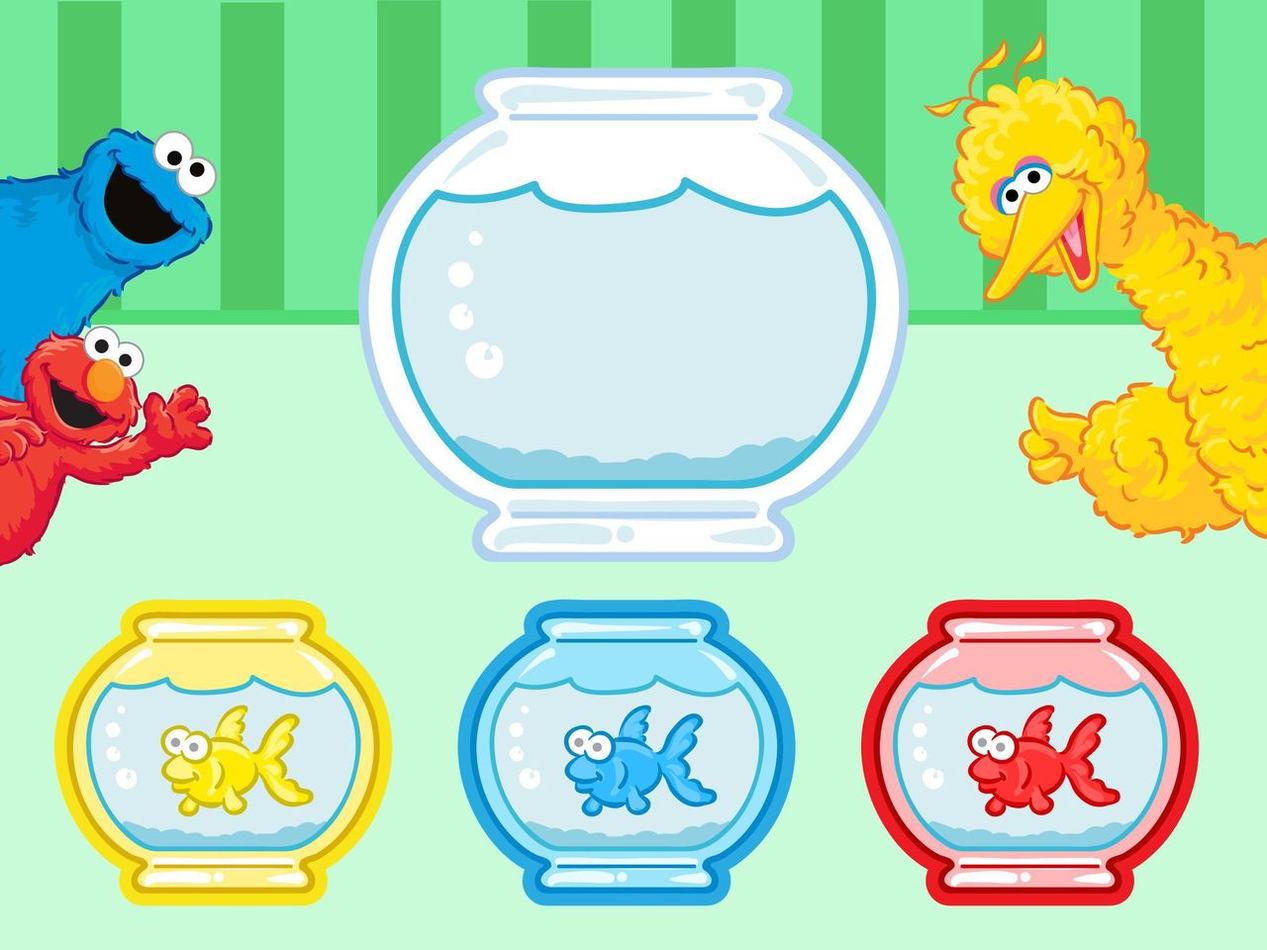
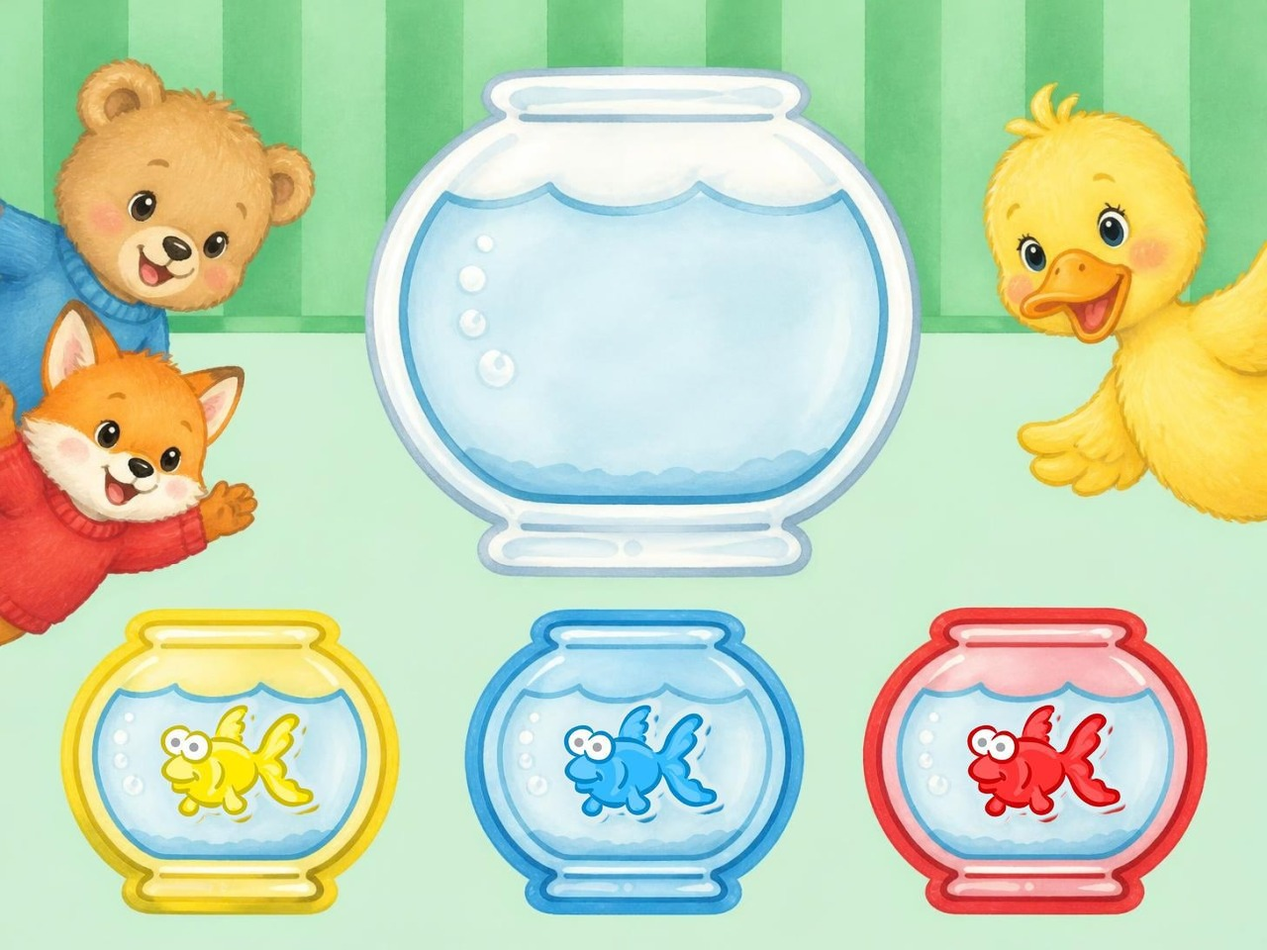
Sesame Street characters replaced in 'התאמת צבעים' (3 slides) and the height puzzle in 'גודל וגובה' (pieces now the new animals)

diff --git a/games/g4bj1/index.html b/games/g4bj1/index.html
@@ -157,7 +157,7 @@ body.framed #app .top .brand{display:none}
 </script>
 <script>
 /*CFGLINE*/
-const CFG = {"slides": [{"i": 0, "t": "R", "img": "img/s0.jpg?b=4", "acts": [{"intro": "aud/photo1__activity0__activity0.mp3", "advance": true, "idle": null, "shapes": []}], "layers": [{"t": "bg", "src": "lay/s0_0.jpg?b=4", "w": 2048, "h": 1536, "m": [1, 0, 0, 1, 0, 0], "show": 0, "tog": false}]}, {"i": 1, "t": "P", "img": "img/s1.jpg?b=4", "acts": [{"intro": "aud/photo2__activity0__activity0.mp3", "advance": false, "idle": null, "shapes": [{"d": "M 532.1 602.2 L 535.4 598.0 L 536.8 592.9 L 540.1 588.6 L 542.9 584.0 L 547.6 579.7 L 552.3 576.9 L 557.0 574.6 L 562.1 573.2 L 567.3 575.1 L 571.5 577.9 L 571.5 583.0 L 567.7 587.2 L 566.3 592.4 L 567.3 597.5 L 566.3 602.7 L 563.0 606.9 L 559.3 611.1 L 560.2 616.3 L 561.2 621.4 L 559.3 626.1 L 564.4 627.0 L 568.2 630.8 L 570.1 635.5 L 575.2 636.4 L 580.4 637.3 L 584.6 640.6 L 583.6 645.8 L 579.4 648.6 L 574.8 650.5 L 570.1 652.3 L 564.9 653.7 L 559.8 653.7 L 554.6 652.3 L 549.9 650.0 L 545.7 646.2 L 541.5 642.5 L 539.2 637.8 L 537.8 632.7 L 534.0 636.9 L 529.8 640.6 L 525.6 643.4 L 529.3 647.2 L 530.3 652.3 L 526.0 656.1 L 521.4 658.0 L 516.2 659.4 L 511.1 658.9 L 506.8 656.1 L 504.5 651.4 L 500.3 654.7 L 495.1 655.1 L 490.5 653.3 L 487.6 657.5 L 483.9 661.7 L 479.2 664.0 L 474.1 662.6 L 469.9 658.9 L 468.0 654.2 L 468.9 649.1 L 473.1 645.8 L 476.9 642.0 L 471.7 643.0 L 466.6 643.0 L 463.3 638.8 L 462.4 633.6 L 459.1 629.4 L 455.8 625.2 L 455.3 620.0 L 457.2 614.9 L 461.4 611.1 L 458.1 606.9 L 455.8 602.2 L 454.4 597.1 L 454.9 591.9 L 459.1 587.7 L 463.8 585.4 L 468.4 583.5 L 473.6 583.0 L 478.3 585.4 L 482.5 588.2 L 487.2 585.8 L 492.3 587.2 L 495.6 591.5 L 498.4 595.7 L 498.0 590.5 L 500.8 586.3 L 503.1 581.6 L 506.4 576.9 L 510.6 573.2 L 514.8 570.4 L 520.0 568.5 L 525.1 567.1 L 530.3 568.5 L 530.7 573.7 L 526.5 576.5 L 523.7 580.7 L 526.5 584.9 L 526.5 590.0 L 525.6 595.2 L 527.0 600.4 L 531.2 603.2 L 534.7 599.6 Z", "bb": [454, 567, 585, 664], "r1": "aud/photo2__activity0__shape4__record1_4.mp3", "r2": null, "ans": [], "link": null, "tx": 71.4, "ty": -299.7, "idle": null}, {"d": "M 206.2 601.8 L 209.5 597.5 L 210.9 592.4 L 214.2 588.2 L 217.0 583.5 L 221.7 579.3 L 226.3 576.5 L 231.0 574.1 L 236.2 572.7 L 241.3 574.6 L 245.5 577.4 L 245.5 582.6 L 241.8 586.8 L 240.4 591.9 L 241.3 597.1 L 240.4 602.2 L 237.1 606.4 L 233.4 610.7 L 234.3 615.8 L 235.2 621.0 L 233.4 625.6 L 238.5 626.6 L 242.3 630.3 L 244.1 635.0 L 249.3 635.9 L 254.4 636.9 L 258.7 640.2 L 257.7 645.3 L 253.5 648.1 L 248.8 650.0 L 244.1 651.9 L 239.0 653.3 L 233.8 653.3 L 228.7 651.9 L 224.0 649.5 L 219.8 645.8 L 215.6 642.0 L 213.2 637.3 L 211.8 632.2 L 208.1 636.4 L 203.9 640.2 L 199.6 643.0 L 203.4 646.7 L 204.3 651.9 L 200.1 655.6 L 195.4 657.5 L 190.3 658.9 L 185.1 658.4 L 180.9 655.6 L 178.6 650.9 L 174.4 654.2 L 169.2 654.7 L 164.5 652.8 L 161.7 657.0 L 158.0 661.2 L 153.3 663.6 L 148.1 662.2 L 143.9 658.4 L 142.0 653.7 L 143.0 648.6 L 147.2 645.3 L 150.9 641.6 L 145.8 642.5 L 140.6 642.5 L 137.4 638.3 L 136.4 633.1 L 133.2 628.9 L 129.9 624.7 L 129.4 619.6 L 131.3 614.4 L 135.5 610.7 L 132.2 606.4 L 129.9 601.8 L 128.5 596.6 L 128.9 591.5 L 133.2 587.2 L 137.8 584.9 L 142.5 583.0 L 147.7 582.6 L 152.4 584.9 L 156.6 587.7 L 161.2 585.4 L 166.4 586.8 L 169.7 591.0 L 172.5 595.2 L 172.0 590.0 L 174.8 585.8 L 177.2 581.2 L 180.4 576.5 L 184.7 572.7 L 188.9 569.9 L 194.0 568.0 L 199.2 566.6 L 204.3 568.0 L 204.8 573.2 L 200.6 576.0 L 197.8 580.2 L 200.6 584.4 L 200.6 589.6 L 199.6 594.7 L 201.1 599.9 L 205.3 602.7 L 208.8 599.2 Z", "bb": [128, 567, 259, 664], "r1": "aud/photo2__activity0__shape6__record1_6.mp3", "r2": null, "ans": [], "link": null, "tx": 322.3, "ty": -391.1, "idle": null}, {"d": "M 857.6 602.2 L 860.9 598.0 L 862.3 592.9 L 865.6 588.6 L 868.4 584.0 L 873.1 579.7 L 877.7 576.9 L 882.4 574.6 L 887.6 573.2 L 892.7 575.1 L 896.9 577.9 L 896.9 583.0 L 893.2 587.2 L 891.8 592.4 L 892.7 597.5 L 891.8 602.7 L 888.5 606.9 L 884.8 611.1 L 885.7 616.3 L 886.6 621.4 L 884.8 626.1 L 889.9 627.0 L 893.7 630.8 L 895.5 635.5 L 900.7 636.4 L 905.8 637.3 L 910.0 640.6 L 909.1 645.8 L 904.9 648.6 L 900.2 650.5 L 895.5 652.3 L 890.4 653.7 L 885.2 653.7 L 880.1 652.3 L 875.4 650.0 L 871.2 646.2 L 867.0 642.5 L 864.6 637.8 L 863.2 632.7 L 859.5 636.9 L 855.3 640.6 L 851.0 643.4 L 854.8 647.2 L 855.7 652.3 L 851.5 656.1 L 846.8 658.0 L 841.7 659.4 L 836.5 658.9 L 832.3 656.1 L 830.0 651.4 L 825.8 654.7 L 820.6 655.1 L 815.9 653.3 L 813.1 657.5 L 809.4 661.7 L 804.7 664.0 L 799.5 662.6 L 795.3 658.9 L 793.4 654.2 L 794.4 649.1 L 798.6 645.8 L 802.3 642.0 L 797.2 643.0 L 792.0 643.0 L 788.8 638.8 L 787.8 633.6 L 784.5 629.4 L 781.3 625.2 L 780.8 620.0 L 782.7 614.9 L 786.9 611.1 L 783.6 606.9 L 781.3 602.2 L 779.9 597.1 L 780.3 591.9 L 784.5 587.7 L 789.2 585.4 L 793.9 583.5 L 799.1 583.0 L 803.7 585.4 L 808.0 588.2 L 812.6 585.8 L 817.8 587.2 L 821.1 591.5 L 823.9 595.7 L 823.4 590.5 L 826.2 586.3 L 828.6 581.6 L 831.8 576.9 L 836.1 573.2 L 840.3 570.4 L 845.4 568.5 L 850.6 567.1 L 855.7 568.5 L 856.2 573.7 L 852.0 576.5 L 849.2 580.7 L 852.0 584.9 L 852.0 590.0 L 851.0 595.2 L 852.4 600.4 L 856.7 603.2 L 860.2 599.6 Z", "bb": [780, 567, 910, 664], "r1": "aud/photo2__activity0__shape5__record1_5.mp3", "r2": null, "ans": [], "link": null, "tx": -405.2, "ty": -293.6, "idle": null}]}]}, {"i": 2, "t": "Q", "img": "img/s2.jpg?b=4", "acts": [{"intro": "aud/photo3__question0__question0.mp3", "advance": false, "idle": null, "shapes": [{"d": "M 406 425.5 C 406 543.4 355.9 639 294.0 639 C 232.1 639 182 543.4 182 425.5 C 182 307.6 232.1 212 294.0 212 C 355.9 212 406 307.6 406 425.5 Z", "bb": [182, 212, 406, 639], "r1": "aud/photo3__question0__answer0.mp3", "r2": "aud/photo3__question0__wrong0.mp3", "ans": [], "link": null, "tx": 0, "ty": 0, "idle": null}]}], "layers": [{"t": "bg", "src": "lay/s2_0.jpg?b=4", "w": 2048, "h": 1536, "m": [1, 0, 0, 1, 0, 0], "show": 0, "tog": false}]}, {"i": 3, "t": "P", "img": "img/s3.jpg?b=4", "acts": [{"intro": "aud/photo4__activity0__activity0.mp3", "advance": false, "idle": null, "shapes": [{"d": "M 612.7 618.6 L 612.7 702.8 C 612.7 706.7 609.5 709.8 605.7 709.8 L 416.0 709.8 C 412.1 709.8 409.0 706.7 409.0 702.8 L 409.0 534.4 C 409.0 530.5 412.1 527.4 416.0 527.4 L 605.7 527.4 C 609.5 527.4 612.7 530.5 612.7 534.4 Z", "bb": [409, 527, 613, 710], "r1": "aud/photo4__activity0__shape5__record1_5.mp3", "r2": null, "ans": [], "link": null, "tx": 245.9, "ty": -494.5, "idle": null}, {"d": "M 297.4 618.4 L 297.4 703.7 C 297.4 707.6 294.3 710.7 290.4 710.7 L 100.0 710.7 C 96.1 710.7 93.0 707.6 93.0 703.7 L 93.0 533.0 C 93.0 529.2 96.1 526.0 100.0 526.0 L 290.4 526.0 C 294.3 526.0 297.4 529.2 297.4 533.0 Z", "bb": [93, 526, 297, 711], "r1": "aud/photo4__activity0__shape6__record1_6.mp3", "r2": null, "ans": [], "link": null, "tx": 312.7, "ty": -494.9, "idle": null}, {"d": "M 926.2 621.7 L 926.2 707.8 C 926.2 711.7 923.1 714.8 919.2 714.8 L 729.0 714.8 C 725.2 714.8 722.0 711.7 722.0 707.8 L 722.0 535.5 C 722.0 531.6 725.2 528.5 729.0 528.5 L 919.2 528.5 C 923.1 528.5 926.2 531.6 926.2 535.5 Z", "bb": [722, 529, 926, 715], "r1": "aud/photo4__activity0__shape4__record1_4.mp3", "r2": null, "ans": [], "link": null, "tx": -566.2, "ty": -498.3, "idle": null}]}]}, {"i": 4, "t": "Q", "img": "img/s4.jpg?b=4", "acts": [{"intro": "aud/photo5__question0__question3.mp3", "advance": false, "idle": null, "shapes": [{"d": "M 722 551.0 C 722 662.0 682.4 752 633.5 752 C 584.6 752 545 662.0 545 551.0 C 545 440.0 584.6 350 633.5 350 C 682.4 350 722 440.0 722 551.0 Z", "bb": [545, 350, 722, 752], "r1": "aud/photo5__question0__answer3.mp3", "r2": "aud/photo5__question0__wrong3.mp3", "ans": [], "link": null, "tx": 0, "ty": 0, "idle": null}]}], "layers": [{"t": "bg", "src": "lay/s4_0.jpg?b=4", "w": 2048, "h": 1536, "m": [1, 0, 0, 1, 0, 0], "show": 0, "tog": false}]}, {"i": 5, "t": "P", "img": "img/s5.jpg?b=4", "acts": [{"intro": "aud/photo6__activity0__activity0.mp3", "advance": false, "idle": null, "shapes": [{"d": "M 345.0 407.2 C 345.0 446.1 309.1 477.6 264.9 477.6 C 220.7 477.6 184.9 446.1 184.9 407.2 C 184.9 368.4 220.7 336.9 264.9 336.9 C 309.1 336.9 345.0 368.4 345.0 407.2 Z", "bb": [185, 337, 345, 478], "r1": "aud/photo6__activity0__shape1__record1_1.mp3", "r2": null, "ans": [], "link": null, "tx": 509, "ty": 267, "idle": null}, {"d": "M 980.5 403.2 C 980.5 442.1 944.6 473.6 900.4 473.6 C 856.2 473.6 820.4 442.1 820.4 403.2 C 820.4 364.4 856.2 332.9 900.4 332.9 C 944.6 332.9 980.5 364.4 980.5 403.2 Z", "bb": [820, 333, 980, 474], "r1": "aud/photo6__activity0__shape3__record1_3.mp3", "r2": null, "ans": [], "link": null, "tx": -377, "ty": 272, "idle": null}, {"d": "M 668.5 393.8 C 668.5 432.6 632.6 464.1 588.4 464.1 C 544.2 464.1 508.4 432.6 508.4 393.8 C 508.4 354.9 544.2 323.4 588.4 323.4 C 632.6 323.4 668.5 354.9 668.5 393.8 Z", "bb": [508, 323, 668, 464], "r1": "aud/photo6__activity0__shape2__record1_2.mp3", "r2": null, "ans": [], "link": null, "tx": -336, "ty": 283, "idle": null}]}]}, {"i": 6, "t": "Q", "img": "img/s6.jpg?b=4", "acts": [{"intro": "aud/photo7__question0__question0.mp3", "advance": false, "idle": null, "shapes": [{"d": "M 876 550.5 C 876 677.8 826.8 781 766.0 781 C 705.2 781 656 677.8 656 550.5 C 656 423.2 705.2 320 766.0 320 C 826.8 320 876 423.2 876 550.5 Z", "bb": [656, 320, 876, 781], "r1": "aud/photo7__question0__answer0.mp3", "r2": "aud/photo7__question0__wrong0.mp3", "ans": [], "link": null, "tx": 0, "ty": 0, "idle": null}]}], "layers": [{"t": "bg", "src": "lay/s6_0.jpg?b=4", "w": 2048, "h": 1536, "m": [1, 0, 0, 1, 0, 0], "show": 0, "tog": false}]}, {"i": 7, "t": "R", "img": "img/s7.jpg?b=4", "acts": [{"intro": "aud/photo8__activity0__activity0.mp3", "advance": true, "idle": null, "shapes": []}], "layers": [{"t": "bg", "src": "lay/s7_0.jpg?b=4", "w": 2048, "h": 1536, "m": [1, 0, 0, 1, 0, 0], "show": 0, "tog": false}]}], "title": "התאמת צבעים", "hash": "g4bj1", "brand": "חן קלימיאן", "writeBase": "../../letters/"};
+const CFG = {"slides": [{"i": 0, "t": "R", "img": "img/s0.jpg?b=4", "acts": [{"intro": "aud/photo1__activity0__activity0.mp3", "advance": true, "idle": null, "shapes": []}], "layers": [{"t": "bg", "src": "lay/s0_0.jpg?b=4", "w": 2048, "h": 1536, "m": [1, 0, 0, 1, 0, 0], "show": 0, "tog": false}]}, {"i": 1, "t": "P", "img": "img/s1.jpg?b=5", "acts": [{"intro": "aud/photo2__activity0__activity0.mp3", "advance": false, "idle": null, "shapes": [{"d": "M 532.1 602.2 L 535.4 598.0 L 536.8 592.9 L 540.1 588.6 L 542.9 584.0 L 547.6 579.7 L 552.3 576.9 L 557.0 574.6 L 562.1 573.2 L 567.3 575.1 L 571.5 577.9 L 571.5 583.0 L 567.7 587.2 L 566.3 592.4 L 567.3 597.5 L 566.3 602.7 L 563.0 606.9 L 559.3 611.1 L 560.2 616.3 L 561.2 621.4 L 559.3 626.1 L 564.4 627.0 L 568.2 630.8 L 570.1 635.5 L 575.2 636.4 L 580.4 637.3 L 584.6 640.6 L 583.6 645.8 L 579.4 648.6 L 574.8 650.5 L 570.1 652.3 L 564.9 653.7 L 559.8 653.7 L 554.6 652.3 L 549.9 650.0 L 545.7 646.2 L 541.5 642.5 L 539.2 637.8 L 537.8 632.7 L 534.0 636.9 L 529.8 640.6 L 525.6 643.4 L 529.3 647.2 L 530.3 652.3 L 526.0 656.1 L 521.4 658.0 L 516.2 659.4 L 511.1 658.9 L 506.8 656.1 L 504.5 651.4 L 500.3 654.7 L 495.1 655.1 L 490.5 653.3 L 487.6 657.5 L 483.9 661.7 L 479.2 664.0 L 474.1 662.6 L 469.9 658.9 L 468.0 654.2 L 468.9 649.1 L 473.1 645.8 L 476.9 642.0 L 471.7 643.0 L 466.6 643.0 L 463.3 638.8 L 462.4 633.6 L 459.1 629.4 L 455.8 625.2 L 455.3 620.0 L 457.2 614.9 L 461.4 611.1 L 458.1 606.9 L 455.8 602.2 L 454.4 597.1 L 454.9 591.9 L 459.1 587.7 L 463.8 585.4 L 468.4 583.5 L 473.6 583.0 L 478.3 585.4 L 482.5 588.2 L 487.2 585.8 L 492.3 587.2 L 495.6 591.5 L 498.4 595.7 L 498.0 590.5 L 500.8 586.3 L 503.1 581.6 L 506.4 576.9 L 510.6 573.2 L 514.8 570.4 L 520.0 568.5 L 525.1 567.1 L 530.3 568.5 L 530.7 573.7 L 526.5 576.5 L 523.7 580.7 L 526.5 584.9 L 526.5 590.0 L 525.6 595.2 L 527.0 600.4 L 531.2 603.2 L 534.7 599.6 Z", "bb": [454, 567, 585, 664], "r1": "aud/photo2__activity0__shape4__record1_4.mp3", "r2": null, "ans": [], "link": null, "tx": 71.4, "ty": -299.7, "idle": null}, {"d": "M 206.2 601.8 L 209.5 597.5 L 210.9 592.4 L 214.2 588.2 L 217.0 583.5 L 221.7 579.3 L 226.3 576.5 L 231.0 574.1 L 236.2 572.7 L 241.3 574.6 L 245.5 577.4 L 245.5 582.6 L 241.8 586.8 L 240.4 591.9 L 241.3 597.1 L 240.4 602.2 L 237.1 606.4 L 233.4 610.7 L 234.3 615.8 L 235.2 621.0 L 233.4 625.6 L 238.5 626.6 L 242.3 630.3 L 244.1 635.0 L 249.3 635.9 L 254.4 636.9 L 258.7 640.2 L 257.7 645.3 L 253.5 648.1 L 248.8 650.0 L 244.1 651.9 L 239.0 653.3 L 233.8 653.3 L 228.7 651.9 L 224.0 649.5 L 219.8 645.8 L 215.6 642.0 L 213.2 637.3 L 211.8 632.2 L 208.1 636.4 L 203.9 640.2 L 199.6 643.0 L 203.4 646.7 L 204.3 651.9 L 200.1 655.6 L 195.4 657.5 L 190.3 658.9 L 185.1 658.4 L 180.9 655.6 L 178.6 650.9 L 174.4 654.2 L 169.2 654.7 L 164.5 652.8 L 161.7 657.0 L 158.0 661.2 L 153.3 663.6 L 148.1 662.2 L 143.9 658.4 L 142.0 653.7 L 143.0 648.6 L 147.2 645.3 L 150.9 641.6 L 145.8 642.5 L 140.6 642.5 L 137.4 638.3 L 136.4 633.1 L 133.2 628.9 L 129.9 624.7 L 129.4 619.6 L 131.3 614.4 L 135.5 610.7 L 132.2 606.4 L 129.9 601.8 L 128.5 596.6 L 128.9 591.5 L 133.2 587.2 L 137.8 584.9 L 142.5 583.0 L 147.7 582.6 L 152.4 584.9 L 156.6 587.7 L 161.2 585.4 L 166.4 586.8 L 169.7 591.0 L 172.5 595.2 L 172.0 590.0 L 174.8 585.8 L 177.2 581.2 L 180.4 576.5 L 184.7 572.7 L 188.9 569.9 L 194.0 568.0 L 199.2 566.6 L 204.3 568.0 L 204.8 573.2 L 200.6 576.0 L 197.8 580.2 L 200.6 584.4 L 200.6 589.6 L 199.6 594.7 L 201.1 599.9 L 205.3 602.7 L 208.8 599.2 Z", "bb": [128, 567, 259, 664], "r1": "aud/photo2__activity0__shape6__record1_6.mp3", "r2": null, "ans": [], "link": null, "tx": 322.3, "ty": -391.1, "idle": null}, {"d": "M 857.6 602.2 L 860.9 598.0 L 862.3 592.9 L 865.6 588.6 L 868.4 584.0 L 873.1 579.7 L 877.7 576.9 L 882.4 574.6 L 887.6 573.2 L 892.7 575.1 L 896.9 577.9 L 896.9 583.0 L 893.2 587.2 L 891.8 592.4 L 892.7 597.5 L 891.8 602.7 L 888.5 606.9 L 884.8 611.1 L 885.7 616.3 L 886.6 621.4 L 884.8 626.1 L 889.9 627.0 L 893.7 630.8 L 895.5 635.5 L 900.7 636.4 L 905.8 637.3 L 910.0 640.6 L 909.1 645.8 L 904.9 648.6 L 900.2 650.5 L 895.5 652.3 L 890.4 653.7 L 885.2 653.7 L 880.1 652.3 L 875.4 650.0 L 871.2 646.2 L 867.0 642.5 L 864.6 637.8 L 863.2 632.7 L 859.5 636.9 L 855.3 640.6 L 851.0 643.4 L 854.8 647.2 L 855.7 652.3 L 851.5 656.1 L 846.8 658.0 L 841.7 659.4 L 836.5 658.9 L 832.3 656.1 L 830.0 651.4 L 825.8 654.7 L 820.6 655.1 L 815.9 653.3 L 813.1 657.5 L 809.4 661.7 L 804.7 664.0 L 799.5 662.6 L 795.3 658.9 L 793.4 654.2 L 794.4 649.1 L 798.6 645.8 L 802.3 642.0 L 797.2 643.0 L 792.0 643.0 L 788.8 638.8 L 787.8 633.6 L 784.5 629.4 L 781.3 625.2 L 780.8 620.0 L 782.7 614.9 L 786.9 611.1 L 783.6 606.9 L 781.3 602.2 L 779.9 597.1 L 780.3 591.9 L 784.5 587.7 L 789.2 585.4 L 793.9 583.5 L 799.1 583.0 L 803.7 585.4 L 808.0 588.2 L 812.6 585.8 L 817.8 587.2 L 821.1 591.5 L 823.9 595.7 L 823.4 590.5 L 826.2 586.3 L 828.6 581.6 L 831.8 576.9 L 836.1 573.2 L 840.3 570.4 L 845.4 568.5 L 850.6 567.1 L 855.7 568.5 L 856.2 573.7 L 852.0 576.5 L 849.2 580.7 L 852.0 584.9 L 852.0 590.0 L 851.0 595.2 L 852.4 600.4 L 856.7 603.2 L 860.2 599.6 Z", "bb": [780, 567, 910, 664], "r1": "aud/photo2__activity0__shape5__record1_5.mp3", "r2": null, "ans": [], "link": null, "tx": -405.2, "ty": -293.6, "idle": null}]}]}, {"i": 2, "t": "Q", "img": "img/s2.jpg?b=4", "acts": [{"intro": "aud/photo3__question0__question0.mp3", "advance": false, "idle": null, "shapes": [{"d": "M 406 425.5 C 406 543.4 355.9 639 294.0 639 C 232.1 639 182 543.4 182 425.5 C 182 307.6 232.1 212 294.0 212 C 355.9 212 406 307.6 406 425.5 Z", "bb": [182, 212, 406, 639], "r1": "aud/photo3__question0__answer0.mp3", "r2": "aud/photo3__question0__wrong0.mp3", "ans": [], "link": null, "tx": 0, "ty": 0, "idle": null}]}], "layers": [{"t": "bg", "src": "lay/s2_0.jpg?b=4", "w": 2048, "h": 1536, "m": [1, 0, 0, 1, 0, 0], "show": 0, "tog": false}]}, {"i": 3, "t": "P", "img": "img/s3.jpg?b=5", "acts": [{"intro": "aud/photo4__activity0__activity0.mp3", "advance": false, "idle": null, "shapes": [{"d": "M 612.7 618.6 L 612.7 702.8 C 612.7 706.7 609.5 709.8 605.7 709.8 L 416.0 709.8 C 412.1 709.8 409.0 706.7 409.0 702.8 L 409.0 534.4 C 409.0 530.5 412.1 527.4 416.0 527.4 L 605.7 527.4 C 609.5 527.4 612.7 530.5 612.7 534.4 Z", "bb": [409, 527, 613, 710], "r1": "aud/photo4__activity0__shape5__record1_5.mp3", "r2": null, "ans": [], "link": null, "tx": 245.9, "ty": -494.5, "idle": null}, {"d": "M 297.4 618.4 L 297.4 703.7 C 297.4 707.6 294.3 710.7 290.4 710.7 L 100.0 710.7 C 96.1 710.7 93.0 707.6 93.0 703.7 L 93.0 533.0 C 93.0 529.2 96.1 526.0 100.0 526.0 L 290.4 526.0 C 294.3 526.0 297.4 529.2 297.4 533.0 Z", "bb": [93, 526, 297, 711], "r1": "aud/photo4__activity0__shape6__record1_6.mp3", "r2": null, "ans": [], "link": null, "tx": 312.7, "ty": -494.9, "idle": null}, {"d": "M 926.2 621.7 L 926.2 707.8 C 926.2 711.7 923.1 714.8 919.2 714.8 L 729.0 714.8 C 725.2 714.8 722.0 711.7 722.0 707.8 L 722.0 535.5 C 722.0 531.6 725.2 528.5 729.0 528.5 L 919.2 528.5 C 923.1 528.5 926.2 531.6 926.2 535.5 Z", "bb": [722, 529, 926, 715], "r1": "aud/photo4__activity0__shape4__record1_4.mp3", "r2": null, "ans": [], "link": null, "tx": -566.2, "ty": -498.3, "idle": null}]}]}, {"i": 4, "t": "Q", "img": "img/s4.jpg?b=4", "acts": [{"intro": "aud/photo5__question0__question3.mp3", "advance": false, "idle": null, "shapes": [{"d": "M 722 551.0 C 722 662.0 682.4 752 633.5 752 C 584.6 752 545 662.0 545 551.0 C 545 440.0 584.6 350 633.5 350 C 682.4 350 722 440.0 722 551.0 Z", "bb": [545, 350, 722, 752], "r1": "aud/photo5__question0__answer3.mp3", "r2": "aud/photo5__question0__wrong3.mp3", "ans": [], "link": null, "tx": 0, "ty": 0, "idle": null}]}], "layers": [{"t": "bg", "src": "lay/s4_0.jpg?b=4", "w": 2048, "h": 1536, "m": [1, 0, 0, 1, 0, 0], "show": 0, "tog": false}]}, {"i": 5, "t": "P", "img": "img/s5.jpg?b=5", "acts": [{"intro": "aud/photo6__activity0__activity0.mp3", "advance": false, "idle": null, "shapes": [{"d": "M 345.0 407.2 C 345.0 446.1 309.1 477.6 264.9 477.6 C 220.7 477.6 184.9 446.1 184.9 407.2 C 184.9 368.4 220.7 336.9 264.9 336.9 C 309.1 336.9 345.0 368.4 345.0 407.2 Z", "bb": [185, 337, 345, 478], "r1": "aud/photo6__activity0__shape1__record1_1.mp3", "r2": null, "ans": [], "link": null, "tx": 509, "ty": 267, "idle": null}, {"d": "M 980.5 403.2 C 980.5 442.1 944.6 473.6 900.4 473.6 C 856.2 473.6 820.4 442.1 820.4 403.2 C 820.4 364.4 856.2 332.9 900.4 332.9 C 944.6 332.9 980.5 364.4 980.5 403.2 Z", "bb": [820, 333, 980, 474], "r1": "aud/photo6__activity0__shape3__record1_3.mp3", "r2": null, "ans": [], "link": null, "tx": -377, "ty": 272, "idle": null}, {"d": "M 668.5 393.8 C 668.5 432.6 632.6 464.1 588.4 464.1 C 544.2 464.1 508.4 432.6 508.4 393.8 C 508.4 354.9 544.2 323.4 588.4 323.4 C 632.6 323.4 668.5 354.9 668.5 393.8 Z", "bb": [508, 323, 668, 464], "r1": "aud/photo6__activity0__shape2__record1_2.mp3", "r2": null, "ans": [], "link": null, "tx": -336, "ty": 283, "idle": null}]}]}, {"i": 6, "t": "Q", "img": "img/s6.jpg?b=4", "acts": [{"intro": "aud/photo7__question0__question0.mp3", "advance": false, "idle": null, "shapes": [{"d": "M 876 550.5 C 876 677.8 826.8 781 766.0 781 C 705.2 781 656 677.8 656 550.5 C 656 423.2 705.2 320 766.0 320 C 826.8 320 876 423.2 876 550.5 Z", "bb": [656, 320, 876, 781], "r1": "aud/photo7__question0__answer0.mp3", "r2": "aud/photo7__question0__wrong0.mp3", "ans": [], "link": null, "tx": 0, "ty": 0, "idle": null}]}], "layers": [{"t": "bg", "src": "lay/s6_0.jpg?b=4", "w": 2048, "h": 1536, "m": [1, 0, 0, 1, 0, 0], "show": 0, "tog": false}]}, {"i": 7, "t": "R", "img": "img/s7.jpg?b=4", "acts": [{"intro": "aud/photo8__activity0__activity0.mp3", "advance": true, "idle": null, "shapes": []}], "layers": [{"t": "bg", "src": "lay/s7_0.jpg?b=4", "w": 2048, "h": 1536, "m": [1, 0, 0, 1, 0, 0], "show": 0, "tog": false}]}], "title": "התאמת צבעים", "hash": "g4bj1", "brand": "חן קלימיאן", "writeBase": "../../letters/"};
 const SL = CFG.slides, LAST = SL.length - 1;
 const NS = 'http://www.w3.org/2000/svg';
 const $ = id => document.getElementById(id);

diff --git a/games/g4ih0/index.html b/games/g4ih0/index.html
@@ -157,7 +157,7 @@ body.framed #app .top .brand{display:none}
 </script>
 <script>
 /*CFGLINE*/
-const CFG = {"slides": [{"i": 0, "t": "R", "img": "img/s0.jpg?b=4", "acts": [{"intro": "aud/photo1__activity0__activity0.mp3", "advance": true, "idle": null, "shapes": []}], "layers": [{"t": "bg", "src": "lay/s0_0.jpg?b=4", "w": 2048, "h": 1536, "m": [1, 0, 0, 1, 0, 0], "show": 0, "tog": false}]}, {"i": 1, "t": "A", "img": "img/s1.jpg?b=5", "acts": [{"intro": "aud/photo2__activity0__activity0.mp3", "advance": false, "idle": null, "shapes": [{"d": "M 965.9 178.1 L 965.9 314.8 C 965.9 318.7 962.8 321.8 958.9 321.8 L 539.8 321.8 C 536.0 321.8 532.8 318.7 532.8 314.8 L 532.8 41.4 C 532.8 37.6 536.0 34.4 539.8 34.4 L 958.9 34.4 C 962.8 34.4 965.9 37.6 965.9 41.4 Z", "bb": [533, 34, 966, 322], "r1": "aud/photo2__activity0__shape1__record1_1.mp3", "r2": null, "ans": [], "link": null, "tx": 0, "ty": 0, "idle": null}, {"d": "M 848.1 459.6 L 848.1 523.9 C 848.1 527.8 844.9 530.9 841.1 530.9 L 658.0 530.9 C 654.1 530.9 651.0 527.8 651.0 523.9 L 651.0 395.2 C 651.0 391.3 654.1 388.2 658.0 388.2 L 841.1 388.2 C 844.9 388.2 848.1 391.3 848.1 395.2 Z", "bb": [651, 388, 848, 531], "r1": "aud/photo2__activity0__shape2__record1_2.mp3", "r2": null, "ans": [], "link": null, "tx": 0, "ty": 0, "idle": null}]}]}, {"i": 2, "t": "Q", "img": "img/s2.jpg?b=4", "acts": [{"intro": "aud/photo3__question1__question0.mp3", "advance": false, "idle": null, "shapes": [{"d": "M 458 267.0 C 458 325.5 416.1 373 364.5 373 C 312.9 373 271 325.5 271 267.0 C 271 208.5 312.9 161 364.5 161 C 416.1 161 458 208.5 458 267.0 Z", "bb": [271, 161, 458, 373], "r1": "aud/photo3__question1__answer0.mp3", "r2": "aud/photo3__question1__wrong0.mp3", "ans": [], "link": null, "tx": 0, "ty": 0, "idle": null}]}, {"intro": "aud/photo3__question0__question2.mp3", "advance": false, "idle": null, "shapes": [{"d": "M 970 269.5 C 970 386.3 896.6 481 806.0 481 C 715.4 481 642 386.3 642 269.5 C 642 152.7 715.4 58 806.0 58 C 896.6 58 970 152.7 970 269.5 Z", "bb": [642, 58, 970, 481], "r1": "aud/photo3__question0__answer2.mp3", "r2": "aud/photo3__question0__wrong2.mp3", "ans": [], "link": null, "tx": 0, "ty": 0, "idle": null}]}], "layers": [{"t": "bg", "src": "lay/s2_0.jpg?b=4", "w": 2048, "h": 1536, "m": [1, 0, 0, 1, 0, 0], "show": 0, "tog": false}]}, {"i": 3, "t": "P", "img": "img/s3.jpg?b=5", "acts": [{"intro": "aud/photo4__activity0__activity0.mp3", "advance": false, "idle": null, "shapes": [{"d": "M 745.4 540.9 C 745.4 564.1 726.2 582.8 702.5 582.8 C 678.8 582.8 659.6 564.1 659.6 540.9 C 659.6 517.8 678.8 499.0 702.5 499.0 C 726.2 499.0 745.4 517.8 745.4 540.9 Z", "bb": [660, 499, 745, 583], "r1": "aud/photo4__activity0__shape2__record1_2.mp3", "r2": null, "ans": [], "link": null, "tx": -54.1, "ty": -334.6, "idle": null}, {"d": "M 530.9 392.4 C 530.9 447.4 486.2 492.0 431.1 492.0 C 376.0 492.0 331.3 447.4 331.3 392.4 C 331.3 337.5 376.0 292.9 431.1 292.9 C 486.2 292.9 530.9 337.5 530.9 392.4 Z", "bb": [331, 293, 531, 492], "r1": "aud/photo4__activity0__shape1__record1_1.mp3", "r2": null, "ans": [], "link": null, "tx": 430.2, "ty": -237.0, "idle": null}]}]}, {"i": 4, "t": "R", "img": "img/s4.jpg?b=4", "acts": [{"intro": "aud/photo5__activity0__activity0.mp3", "advance": true, "idle": null, "shapes": []}], "layers": [{"t": "bg", "src": "lay/s4_0.jpg?b=4", "w": 2048, "h": 1536, "m": [1, 0, 0, 1, 0, 0], "show": 0, "tog": false}]}, {"i": 5, "t": "A", "img": "img/s5.jpg?b=5", "acts": [{"intro": "aud/photo6__activity0__activity0.mp3", "advance": false, "idle": null, "shapes": [{"d": "M 380.0 233.6 C 383.8 221.6 384.1 207.0 384.1 195.0 C 383.8 181.1 379.6 166.9 373.2 152.2 C 363.1 132.0 355.2 119.6 341.0 102.0 C 330.1 91.9 319.2 83.2 308.0 76.9 C 296.4 72.4 284.8 68.6 272.8 65.6 C 260.4 64.5 247.6 64.1 234.5 64.1 C 221.4 64.5 209.0 67.1 197.4 70.9 C 186.1 76.1 174.9 81.4 163.6 87.4 C 152.4 94.1 143.0 102.4 135.1 111.4 C 127.6 120.4 120.9 129.8 114.1 139.5 C 108.5 149.6 104.0 159.4 101.0 169.9 C 98.4 181.5 96.9 193.5 96.1 205.5 C 96.1 216.8 96.1 228.0 96.5 239.2 C 99.1 249.8 101.4 259.5 104.8 269.6 C 108.5 279.4 113.8 292.5 122.8 308.2 C 132.9 318.8 142.2 327.0 151.6 334.1 C 162.5 340.9 169.6 350.6 167.8 363.8 C 164.0 375.4 162.1 386.2 161.4 399.0 C 160.6 413.6 169.2 419.2 180.5 424.1 C 182.4 435.8 176.8 448.5 171.5 459.8 C 166.6 470.6 164.4 484.1 164.4 498.0 C 164.4 508.9 167.0 519.0 174.9 528.4 C 187.2 531.8 195.9 538.1 196.6 550.5 C 195.9 561.4 194.0 574.9 194.0 588.4 C 197.8 600.0 204.5 609.4 215.4 615.4 C 227.4 616.1 240.1 616.1 252.5 616.1 C 264.9 620.2 273.1 628.1 278.4 637.1 C 280.2 649.9 280.2 663.4 280.2 675.4 C 279.5 688.9 278.4 703.1 278.8 714.8 C 285.1 726.4 293.8 735.8 303.9 741.4 C 317.0 743.6 327.9 743.2 339.1 736.9 C 347.4 725.6 349.6 709.1 349.6 690.0 C 349.6 670.1 348.1 651.8 348.1 637.5 C 348.1 625.9 352.2 613.1 360.5 603.0 C 366.5 592.1 368.4 579.4 371.0 566.2 C 377.0 556.5 386.0 548.6 397.2 541.9 C 410.4 538.1 422.0 535.9 433.2 529.5 C 436.6 517.5 435.9 503.6 425.4 489.8 C 416.4 481.9 407.4 475.5 405.5 465.0 C 409.6 452.6 415.2 442.9 421.6 432.4 C 427.2 419.2 429.5 405.0 429.5 388.5 C 425.4 374.2 417.9 361.5 409.6 352.1 C 409.2 341.2 416.8 333.0 424.6 320.6 C 430.6 308.6 435.1 297.8 437.4 288.0 C 438.1 273.8 436.6 261.0 431.4 251.6 C 422.0 242.6 412.6 239.2 401.4 238.9 Z", "bb": [96, 64, 438, 744], "r1": "aud/photo6__activity0__shape2__record1_2.mp3", "r2": null, "ans": [], "link": null, "tx": 0, "ty": 0, "idle": null}, {"d": "M 481.6 536.2 C 468.5 535.1 455.8 535.1 442.6 536.6 C 430.6 540.0 420.1 543.8 410.4 549.0 C 417.5 560.2 420.9 572.2 423.5 582.8 C 427.6 597.4 431.0 608.2 436.6 619.9 C 444.5 628.9 454.2 636.0 464.8 641.6 C 479.0 646.1 489.9 648.0 500.4 651.0 C 504.5 663.4 504.5 676.1 501.1 688.9 C 500.0 700.9 500.0 714.4 503.0 726.8 C 510.9 737.2 522.5 744.4 533.4 746.6 C 546.9 747.4 558.5 741.8 566.8 733.1 C 572.4 719.6 574.2 707.6 573.5 693.0 C 569.4 678.0 568.2 664.1 568.2 651.0 C 575.0 642.0 585.9 639.0 597.9 639.0 C 609.9 641.6 621.5 643.5 635.0 643.5 C 651.9 641.2 663.9 637.5 678.5 627.8 C 686.8 621.4 699.5 611.2 707.0 604.5 C 717.9 592.5 726.1 578.6 733.2 565.5 C 741.1 548.2 745.2 532.9 747.5 517.5 C 747.9 501.4 746.8 489.0 743.4 477.4 C 738.1 463.5 732.9 451.1 725.8 438.4 C 719.0 426.4 710.0 413.2 701.4 402.0 C 689.8 391.1 678.1 383.2 663.1 375.4 C 650.8 370.5 634.2 366.4 617.8 364.1 C 601.2 363.8 585.5 363.8 569.4 365.6 C 552.9 370.1 539.0 374.6 522.5 382.9 C 509.0 392.6 497.8 403.5 489.1 413.6 C 482.0 424.1 476.4 435.8 471.5 447.8 C 468.5 461.2 467.0 475.9 467.0 490.9 C 467.8 503.6 471.5 515.6 481.2 526.9 Z", "bb": [410, 364, 748, 747], "r1": "aud/photo6__activity0__shape1__record1_1.mp3", "r2": null, "ans": [], "link": null, "tx": 0, "ty": 0, "idle": null}]}]}, {"i": 6, "t": "Q", "img": "img/s6.jpg?b=4", "acts": [{"intro": "aud/photo7__question0__question1.mp3", "advance": false, "idle": null, "shapes": [{"d": "M 720 565.0 C 720 639.6 680.8 700 632.5 700 C 584.2 700 545 639.6 545 565.0 C 545 490.4 584.2 430 632.5 430 C 680.8 430 720 490.4 720 565.0 Z", "bb": [545, 430, 720, 700], "r1": "aud/photo7__question0__answer1.mp3", "r2": "aud/photo7__question0__wrong1.mp3", "ans": [], "link": null, "tx": 0, "ty": 0, "idle": null}]}], "layers": [{"t": "bg", "src": "lay/s6_0.jpg?b=4", "w": 2048, "h": 1536, "m": [1, 0, 0, 1, 0, 0], "show": 0, "tog": false}]}, {"i": 7, "t": "P", "img": "img/s7.jpg?b=4", "acts": [{"intro": "aud/photo8__activity0__activity0.mp3", "advance": false, "idle": null, "shapes": [{"d": "M 579.3 568.1 L 579.3 730.7 C 579.3 734.5 576.2 737.7 572.3 737.7 L 375.9 737.7 C 372.1 737.7 368.9 734.5 368.9 730.7 L 368.9 405.6 C 368.9 401.7 372.1 398.6 375.9 398.6 L 572.3 398.6 C 576.2 398.6 579.3 401.7 579.3 405.6 Z", "bb": [369, 399, 579, 738], "r1": null, "r2": null, "ans": [], "link": null, "tx": -284.2, "ty": -377.6, "idle": null}, {"d": "M 297.3 568.1 L 297.3 730.7 C 297.3 734.5 294.2 737.7 290.3 737.7 L 93.9 737.7 C 90.1 737.7 86.9 734.5 86.9 730.7 L 86.9 405.6 C 86.9 401.7 90.1 398.6 93.9 398.6 L 290.3 398.6 C 294.2 398.6 297.3 401.7 297.3 405.6 Z", "bb": [87, 399, 297, 738], "r1": null, "r2": null, "ans": [], "link": null, "tx": 282.3, "ty": -371.4, "idle": null}]}]}, {"i": 8, "t": "R", "img": "img/s8.jpg?b=4", "acts": [{"intro": "aud/photo9__activity0__activity0.mp3", "advance": true, "idle": null, "shapes": []}], "layers": [{"t": "bg", "src": "lay/s8_0.jpg?b=4", "w": 2048, "h": 1536, "m": [1, 0, 0, 1, 0, 0], "show": 0, "tog": false}]}, {"i": 9, "t": "R", "img": "img/s9.jpg?b=4", "acts": [{"intro": "aud/photo10__activity0__activity0.mp3", "advance": true, "idle": null, "shapes": []}], "layers": [{"t": "bg", "src": "lay/s9_0.jpg?b=4", "w": 2048, "h": 1536, "m": [1, 0, 0, 1, 0, 0], "show": 0, "tog": false}]}, {"i": 10, "t": "R", "img": "img/s10.jpg?b=4", "acts": [{"intro": "aud/photo11__activity0__activity0.mp3", "advance": true, "idle": null, "shapes": []}], "layers": [{"t": "bg", "src": "lay/s10_0.jpg?b=4", "w": 2048, "h": 1536, "m": [1, 0, 0, 1, 0, 0], "show": 0, "tog": false}]}, {"i": 11, "t": "R", "img": "img/s11.jpg?b=4", "acts": [{"intro": "aud/photo12__activity0__activity0.mp3", "advance": true, "idle": null, "shapes": []}], "layers": [{"t": "bg", "src": "lay/s11_0.jpg?b=4", "w": 2048, "h": 1536, "m": [1, 0, 0, 1, 0, 0], "show": 0, "tog": false}]}, {"i": 12, "t": "R", "img": "img/s12.jpg?b=4", "acts": [{"intro": "aud/photo13__activity0__activity0.mp3", "advance": true, "idle": null, "shapes": []}], "skip": true, "layers": [{"t": "bg", "src": "lay/s12_0.jpg?b=4", "w": 2048, "h": 1536, "m": [1, 0, 0, 1, 0, 0], "show": 0, "tog": false}]}], "title": "גודל וגובה", "hash": "g4ih0", "brand": "חן קלימיאן", "writeBase": "../../letters/"};
+const CFG = {"slides":[{"i":0,"t":"R","img":"img/s0.jpg?b=4","acts":[{"intro":"aud/photo1__activity0__activity0.mp3","advance":true,"idle":null,"shapes":[]}],"layers":[{"t":"bg","src":"lay/s0_0.jpg?b=4","w":2048,"h":1536,"m":[1,0,0,1,0,0],"show":0,"tog":false}]},{"i":1,"t":"A","img":"img/s1.jpg?b=5","acts":[{"intro":"aud/photo2__activity0__activity0.mp3","advance":false,"idle":null,"shapes":[{"d":"M 965.9 178.1 L 965.9 314.8 C 965.9 318.7 962.8 321.8 958.9 321.8 L 539.8 321.8 C 536.0 321.8 532.8 318.7 532.8 314.8 L 532.8 41.4 C 532.8 37.6 536.0 34.4 539.8 34.4 L 958.9 34.4 C 962.8 34.4 965.9 37.6 965.9 41.4 Z","bb":[533,34,966,322],"r1":"aud/photo2__activity0__shape1__record1_1.mp3","r2":null,"ans":[],"link":null,"tx":0,"ty":0,"idle":null},{"d":"M 848.1 459.6 L 848.1 523.9 C 848.1 527.8 844.9 530.9 841.1 530.9 L 658.0 530.9 C 654.1 530.9 651.0 527.8 651.0 523.9 L 651.0 395.2 C 651.0 391.3 654.1 388.2 658.0 388.2 L 841.1 388.2 C 844.9 388.2 848.1 391.3 848.1 395.2 Z","bb":[651,388,848,531],"r1":"aud/photo2__activity0__shape2__record1_2.mp3","r2":null,"ans":[],"link":null,"tx":0,"ty":0,"idle":null}]}]},{"i":2,"t":"Q","img":"img/s2.jpg?b=4","acts":[{"intro":"aud/photo3__question1__question0.mp3","advance":false,"idle":null,"shapes":[{"d":"M 458 267.0 C 458 325.5 416.1 373 364.5 373 C 312.9 373 271 325.5 271 267.0 C 271 208.5 312.9 161 364.5 161 C 416.1 161 458 208.5 458 267.0 Z","bb":[271,161,458,373],"r1":"aud/photo3__question1__answer0.mp3","r2":"aud/photo3__question1__wrong0.mp3","ans":[],"link":null,"tx":0,"ty":0,"idle":null}]},{"intro":"aud/photo3__question0__question2.mp3","advance":false,"idle":null,"shapes":[{"d":"M 970 269.5 C 970 386.3 896.6 481 806.0 481 C 715.4 481 642 386.3 642 269.5 C 642 152.7 715.4 58 806.0 58 C 896.6 58 970 152.7 970 269.5 Z","bb":[642,58,970,481],"r1":"aud/photo3__question0__answer2.mp3","r2":"aud/photo3__question0__wrong2.mp3","ans":[],"link":null,"tx":0,"ty":0,"idle":null}]}],"layers":[{"t":"bg","src":"lay/s2_0.jpg?b=4","w":2048,"h":1536,"m":[1,0,0,1,0,0],"show":0,"tog":false}]},{"i":3,"t":"P","img":"img/s3.jpg?b=5","acts":[{"intro":"aud/photo4__activity0__activity0.mp3","advance":false,"idle":null,"shapes":[{"d":"M 745.4 540.9 C 745.4 564.1 726.2 582.8 702.5 582.8 C 678.8 582.8 659.6 564.1 659.6 540.9 C 659.6 517.8 678.8 499.0 702.5 499.0 C 726.2 499.0 745.4 517.8 745.4 540.9 Z","bb":[660,499,745,583],"r1":"aud/photo4__activity0__shape2__record1_2.mp3","r2":null,"ans":[],"link":null,"tx":-54.1,"ty":-334.6,"idle":null},{"d":"M 530.9 392.4 C 530.9 447.4 486.2 492.0 431.1 492.0 C 376.0 492.0 331.3 447.4 331.3 392.4 C 331.3 337.5 376.0 292.9 431.1 292.9 C 486.2 292.9 530.9 337.5 530.9 392.4 Z","bb":[331,293,531,492],"r1":"aud/photo4__activity0__shape1__record1_1.mp3","r2":null,"ans":[],"link":null,"tx":430.2,"ty":-237,"idle":null}]}]},{"i":4,"t":"R","img":"img/s4.jpg?b=4","acts":[{"intro":"aud/photo5__activity0__activity0.mp3","advance":true,"idle":null,"shapes":[]}],"layers":[{"t":"bg","src":"lay/s4_0.jpg?b=4","w":2048,"h":1536,"m":[1,0,0,1,0,0],"show":0,"tog":false}]},{"i":5,"t":"A","img":"img/s5.jpg?b=5","acts":[{"intro":"aud/photo6__activity0__activity0.mp3","advance":false,"idle":null,"shapes":[{"d":"M 380.0 233.6 C 383.8 221.6 384.1 207.0 384.1 195.0 C 383.8 181.1 379.6 166.9 373.2 152.2 C 363.1 132.0 355.2 119.6 341.0 102.0 C 330.1 91.9 319.2 83.2 308.0 76.9 C 296.4 72.4 284.8 68.6 272.8 65.6 C 260.4 64.5 247.6 64.1 234.5 64.1 C 221.4 64.5 209.0 67.1 197.4 70.9 C 186.1 76.1 174.9 81.4 163.6 87.4 C 152.4 94.1 143.0 102.4 135.1 111.4 C 127.6 120.4 120.9 129.8 114.1 139.5 C 108.5 149.6 104.0 159.4 101.0 169.9 C 98.4 181.5 96.9 193.5 96.1 205.5 C 96.1 216.8 96.1 228.0 96.5 239.2 C 99.1 249.8 101.4 259.5 104.8 269.6 C 108.5 279.4 113.8 292.5 122.8 308.2 C 132.9 318.8 142.2 327.0 151.6 334.1 C 162.5 340.9 169.6 350.6 167.8 363.8 C 164.0 375.4 162.1 386.2 161.4 399.0 C 160.6 413.6 169.2 419.2 180.5 424.1 C 182.4 435.8 176.8 448.5 171.5 459.8 C 166.6 470.6 164.4 484.1 164.4 498.0 C 164.4 508.9 167.0 519.0 174.9 528.4 C 187.2 531.8 195.9 538.1 196.6 550.5 C 195.9 561.4 194.0 574.9 194.0 588.4 C 197.8 600.0 204.5 609.4 215.4 615.4 C 227.4 616.1 240.1 616.1 252.5 616.1 C 264.9 620.2 273.1 628.1 278.4 637.1 C 280.2 649.9 280.2 663.4 280.2 675.4 C 279.5 688.9 278.4 703.1 278.8 714.8 C 285.1 726.4 293.8 735.8 303.9 741.4 C 317.0 743.6 327.9 743.2 339.1 736.9 C 347.4 725.6 349.6 709.1 349.6 690.0 C 349.6 670.1 348.1 651.8 348.1 637.5 C 348.1 625.9 352.2 613.1 360.5 603.0 C 366.5 592.1 368.4 579.4 371.0 566.2 C 377.0 556.5 386.0 548.6 397.2 541.9 C 410.4 538.1 422.0 535.9 433.2 529.5 C 436.6 517.5 435.9 503.6 425.4 489.8 C 416.4 481.9 407.4 475.5 405.5 465.0 C 409.6 452.6 415.2 442.9 421.6 432.4 C 427.2 419.2 429.5 405.0 429.5 388.5 C 425.4 374.2 417.9 361.5 409.6 352.1 C 409.2 341.2 416.8 333.0 424.6 320.6 C 430.6 308.6 435.1 297.8 437.4 288.0 C 438.1 273.8 436.6 261.0 431.4 251.6 C 422.0 242.6 412.6 239.2 401.4 238.9 Z","bb":[96,64,438,744],"r1":"aud/photo6__activity0__shape2__record1_2.mp3","r2":null,"ans":[],"link":null,"tx":0,"ty":0,"idle":null},{"d":"M 481.6 536.2 C 468.5 535.1 455.8 535.1 442.6 536.6 C 430.6 540.0 420.1 543.8 410.4 549.0 C 417.5 560.2 420.9 572.2 423.5 582.8 C 427.6 597.4 431.0 608.2 436.6 619.9 C 444.5 628.9 454.2 636.0 464.8 641.6 C 479.0 646.1 489.9 648.0 500.4 651.0 C 504.5 663.4 504.5 676.1 501.1 688.9 C 500.0 700.9 500.0 714.4 503.0 726.8 C 510.9 737.2 522.5 744.4 533.4 746.6 C 546.9 747.4 558.5 741.8 566.8 733.1 C 572.4 719.6 574.2 707.6 573.5 693.0 C 569.4 678.0 568.2 664.1 568.2 651.0 C 575.0 642.0 585.9 639.0 597.9 639.0 C 609.9 641.6 621.5 643.5 635.0 643.5 C 651.9 641.2 663.9 637.5 678.5 627.8 C 686.8 621.4 699.5 611.2 707.0 604.5 C 717.9 592.5 726.1 578.6 733.2 565.5 C 741.1 548.2 745.2 532.9 747.5 517.5 C 747.9 501.4 746.8 489.0 743.4 477.4 C 738.1 463.5 732.9 451.1 725.8 438.4 C 719.0 426.4 710.0 413.2 701.4 402.0 C 689.8 391.1 678.1 383.2 663.1 375.4 C 650.8 370.5 634.2 366.4 617.8 364.1 C 601.2 363.8 585.5 363.8 569.4 365.6 C 552.9 370.1 539.0 374.6 522.5 382.9 C 509.0 392.6 497.8 403.5 489.1 413.6 C 482.0 424.1 476.4 435.8 471.5 447.8 C 468.5 461.2 467.0 475.9 467.0 490.9 C 467.8 503.6 471.5 515.6 481.2 526.9 Z","bb":[410,364,748,747],"r1":"aud/photo6__activity0__shape1__record1_1.mp3","r2":null,"ans":[],"link":null,"tx":0,"ty":0,"idle":null}]}]},{"i":6,"t":"Q","img":"img/s6.jpg?b=4","acts":[{"intro":"aud/photo7__question0__question1.mp3","advance":false,"idle":null,"shapes":[{"d":"M 720 565.0 C 720 639.6 680.8 700 632.5 700 C 584.2 700 545 639.6 545 565.0 C 545 490.4 584.2 430 632.5 430 C 680.8 430 720 490.4 720 565.0 Z","bb":[545,430,720,700],"r1":"aud/photo7__question0__answer1.mp3","r2":"aud/photo7__question0__wrong1.mp3","ans":[],"link":null,"tx":0,"ty":0,"idle":null}]}],"layers":[{"t":"bg","src":"lay/s6_0.jpg?b=4","w":2048,"h":1536,"m":[1,0,0,1,0,0],"show":0,"tog":false}]},{"i":7,"t":"P","img":"img/s7.jpg?b=5","acts":[{"intro":"aud/photo8__activity0__activity0.mp3","advance":false,"idle":null,"shapes":[{"d":"M 386 360 L 578 360 Q 604 360 604 386 L 604 694 Q 604 720 578 720 L 386 720 Q 360 720 360 694 L 360 386 Q 360 360 386 360 Z","bb":[360,360,604,720],"r1":null,"r2":null,"ans":[],"link":null,"tx":-284.2,"ty":-377.6,"idle":null},{"d":"M 156 426 L 288 426 Q 314 426 314 452 L 314 698 Q 314 724 288 724 L 156 724 Q 130 724 130 698 L 130 452 Q 130 426 156 426 Z","bb":[130,426,314,724],"r1":null,"r2":null,"ans":[],"link":null,"tx":282.3,"ty":-371.4,"idle":null}]}]},{"i":8,"t":"R","img":"img/s8.jpg?b=4","acts":[{"intro":"aud/photo9__activity0__activity0.mp3","advance":true,"idle":null,"shapes":[]}],"layers":[{"t":"bg","src":"lay/s8_0.jpg?b=4","w":2048,"h":1536,"m":[1,0,0,1,0,0],"show":0,"tog":false}]},{"i":9,"t":"R","img":"img/s9.jpg?b=4","acts":[{"intro":"aud/photo10__activity0__activity0.mp3","advance":true,"idle":null,"shapes":[]}],"layers":[{"t":"bg","src":"lay/s9_0.jpg?b=4","w":2048,"h":1536,"m":[1,0,0,1,0,0],"show":0,"tog":false}]},{"i":10,"t":"R","img":"img/s10.jpg?b=4","acts":[{"intro":"aud/photo11__activity0__activity0.mp3","advance":true,"idle":null,"shapes":[]}],"layers":[{"t":"bg","src":"lay/s10_0.jpg?b=4","w":2048,"h":1536,"m":[1,0,0,1,0,0],"show":0,"tog":false}]},{"i":11,"t":"R","img":"img/s11.jpg?b=4","acts":[{"intro":"aud/photo12__activity0__activity0.mp3","advance":true,"idle":null,"shapes":[]}],"layers":[{"t":"bg","src":"lay/s11_0.jpg?b=4","w":2048,"h":1536,"m":[1,0,0,1,0,0],"show":0,"tog":false}]},{"i":12,"t":"R","img":"img/s12.jpg?b=4","acts":[{"intro":"aud/photo13__activity0__activity0.mp3","advance":true,"idle":null,"shapes":[]}],"skip":true,"layers":[{"t":"bg","src":"lay/s12_0.jpg?b=4","w":2048,"h":1536,"m":[1,0,0,1,0,0],"show":0,"tog":false}]}],"title":"גודל וגובה","hash":"g4ih0","brand":"חן קלימיאן","writeBase":"../../letters/"};
 const SL = CFG.slides, LAST = SL.length - 1;
 const NS = 'http://www.w3.org/2000/svg';
 const $ = id => document.getElementById(id);
